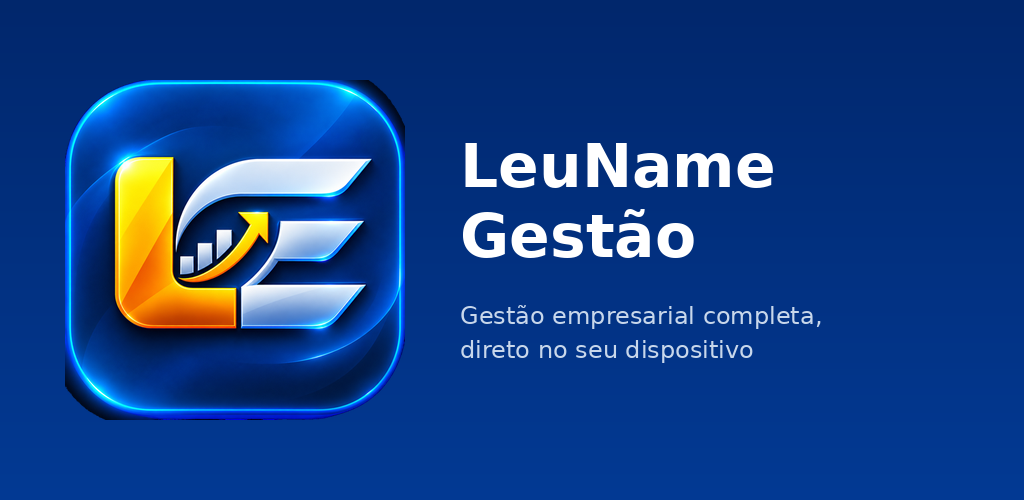
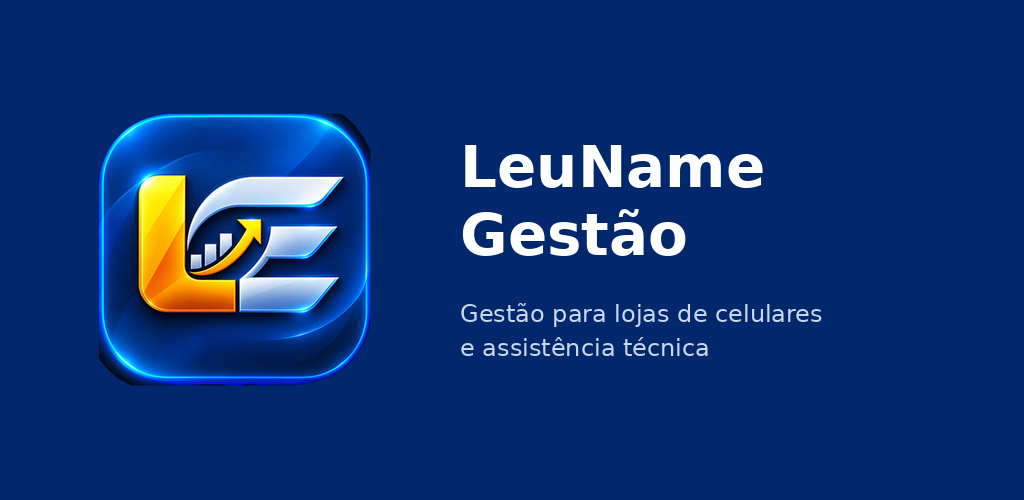
Corrige icone da Play Store (removendo transparencia) e ajusta textos
O ic_launcher_play_store_512.png tinha cantos transparentes, causando
borda preta quando exibido pela Google (que nao aceita transparencia
nesse icone). Gerado um icone solido equivalente, e regenerada a
imagem de destaque com o icone corrigido e com o texto "Gestao para
lojas de celulares e assistencia tecnica". Tambem substituido o
screenshot do dispositivo real pela versao sem a barra de navegacao
do sistema.

Claude-Session: https://claude.ai/code/session_01HspcqP295BKo9VdY2yVLHw

diff --git a/ANDROID/TEXTOS-FICHA-DA-LOJA-PLAY-STORE.md b/ANDROID/TEXTOS-FICHA-DA-LOJA-PLAY-STORE.md
@@ -12,7 +12,7 @@ LeuName Gestão
 ## Descrição curta
 (máx. 80 caracteres)
 ```
-Gestão completa de vendas, estoque, OS e financeiro. 100% offline.
+Gestão para lojas de celulares e assistência técnica. 100% offline.
 ```
 
 ## Descrição completa
